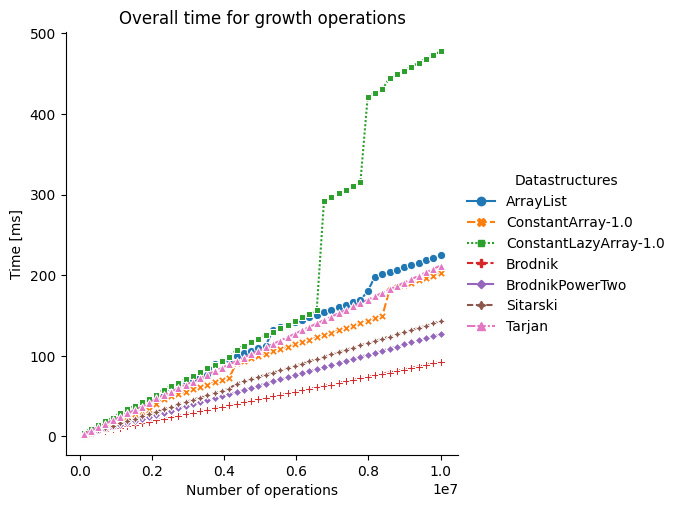
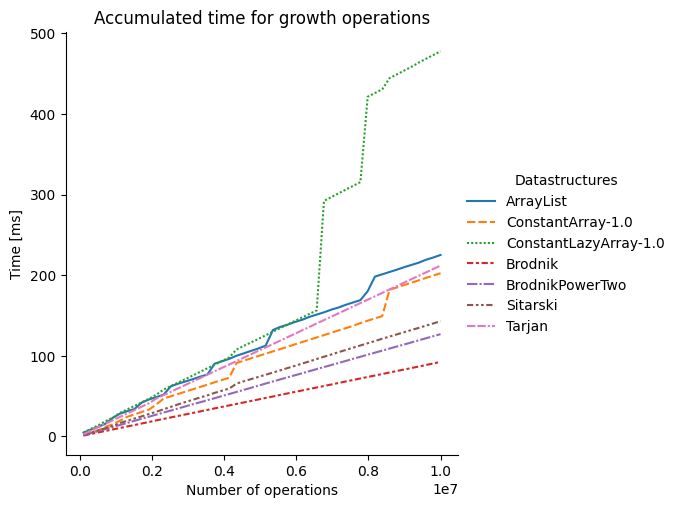
Created figures for meeting

diff --git a/thesis_figures/main.py b/thesis_figures/main.py
@@ -12,6 +12,7 @@ def plot_times(time_benchmark):
     fields = time_benchmark['FIELDS']
     g = sns.relplot(data=time_benchmark['df'], facet_kws={'legend_out': True})
     g._legend.set_title("Datastructures")
+    g._legend.remove()
     title = "Time pr. operation" if fields['RANDOM_OPERATION'] else "Time pr. growth operation"
     g.set(xlabel="Operation index", ylabel="Time [ns]", title=title)
     return g
@@ -27,26 +28,29 @@ def plot_total_time(time_benchmark):
     df = pd.DataFrame({**time_benchmark['DATA'], **{'SIZES': fields['INTERVALS']}})
     time_benchmark['df'] = df.melt('SIZES', var_name='COLS', value_name='VALS')
 
-    g = sns.relplot(data=time_benchmark['df'], x='SIZES', y='VALS', hue='COLS', kind='line', style='COLS', markers=True,
+    g = sns.relplot(data=time_benchmark['df'], x='SIZES', y='VALS', hue='COLS', kind='line', style='COLS',
                     facet_kws={'legend_out': True})
     g._legend.set_title("Datastructures")
+    # g._legend.remove()
 
-    title = "Overall time for random sequence" if fields['RANDOM_OPERATION'] else "Overall time for growth operations"
+    title = "Accumulated time for random sequence" if fields['RANDOM_OPERATION'] else "Accumulated time for growth operations"
     g.set(xlabel="Number of operations", ylabel="Time [ms]", title=title)
     return g
 
 
 def plot_memory(mem_benchmark):
+    fig, ax = plt.subplots()
     fields = mem_benchmark['FIELDS']
-    mem_benchmark['df'] = pd.DataFrame({**mem_benchmark['DATA'], **{'ACTUAL_SIZE': fields['ACTUAL_SIZE']}})
+    # mem_benchmark['DATA'].pop('ArrayList')
+    mem_benchmark['df'] = pd.DataFrame(mem_benchmark['DATA'])
 
-    g = sns.relplot(data=mem_benchmark['df'], facet_kws={'legend_out': True})
-    g._legend.set_title("Datastructures")
+    sns.lineplot(data=mem_benchmark['df'], ax=ax)
+    sns.lineplot(data=fields['ACTUAL_SIZE'], ax=ax, color='black', label='Actual size')
 
     title = "Memory consumption"
-    g.set(xlabel="Operation index", ylabel="Memory [Words]", title=title)
-
-    return g
+    ax.set(xlabel="Operation index", ylabel="Memory [Words]", title=title)
+    sns.despine()
+    return fig
 
 
 def plot_warmup(benchmark):
@@ -65,6 +69,7 @@ def plot_warmup(benchmark):
     title = "Warmup"
     g.set(xlabel="Number of operations", ylabel="Time [ms]", title=title)
     return g
+
 
 
 def plot_benchmark(benchmark):
@@ -96,7 +101,7 @@ def main():
         g = plot_benchmark(benchmark)
         name = benchmark['NAME']
         g.savefig(f'Figures/{name}_{idx}.png', format='png')
-    # plt.show()
+    plt.show()
 
 
 if __name__ == '__main__':

diff --git a/thesis_implementation/src/benchmarking/MemoryBenchmark.java b/thesis_implementation/src/benchmarking/MemoryBenchmark.java
@@ -12,9 +12,8 @@ public class MemoryBenchmark extends Benchmark {
     private final ResizableArray<Integer>[] arrays;
     private final Map<ResizableArray<Integer>, long[]> results;
     private final Map<String, Object> fields;
-
-    private final int TEST_SIZE = (int) 1E4;
-
+    private final int TEST_SIZE = (int) 1E5;
+    private final int SHRINK_COUNT = 0;
 
     public MemoryBenchmark(ResizableArray<Integer>[] arrays){
         this.arrays = arrays;
@@ -51,7 +50,6 @@ public class MemoryBenchmark extends Benchmark {
     @Override
     public void run() {
 //        Operation[] operations = generateOperations(TEST_SIZE, 1, 0, 0, 1);
-        int SHRINK_COUNT = 4000;
         Operation[] operations = growShrink(TEST_SIZE - SHRINK_COUNT, SHRINK_COUNT);
         MemoryMeasurer measurer = new MemoryMeasurer();
         // Compute baseline size

diff --git a/thesis_implementation/src/benchmarking/Benchmarker.java b/thesis_implementation/src/benchmarking/Benchmarker.java
@@ -94,9 +94,9 @@ public class Benchmarker {
 
         // Selected benchmarks
         Benchmark[] benchmarks = new Benchmark[]{
-            new WarmupBenchmark(new Brodnik<>()),
-            new TimeBenchmark(arrays, false),
-            new TotalTimeBenchmark(arrays, false),
+//            new WarmupBenchmark(new Brodnik<>()),
+//            new TimeBenchmark(arrays, false),
+//            new TotalTimeBenchmark(arrays, false),
             new MemoryBenchmark(arrays)
         };
 

diff --git a/thesis_implementation/src/memory/MemoryLookup.java b/thesis_implementation/src/memory/MemoryLookup.java
@@ -5,11 +5,8 @@ public class MemoryLookup {
     public static long wordSize(Object o){
         if (o == null)
             return 0;
-        if (o instanceof Integer)
-            return WORD_SIZE;
-        if (o instanceof Long)
-            return WORD_SIZE;
-        if (o instanceof Float)
+
+        if (isPrimitive(o))
             return WORD_SIZE;
 
         if (o instanceof WordCountable)
